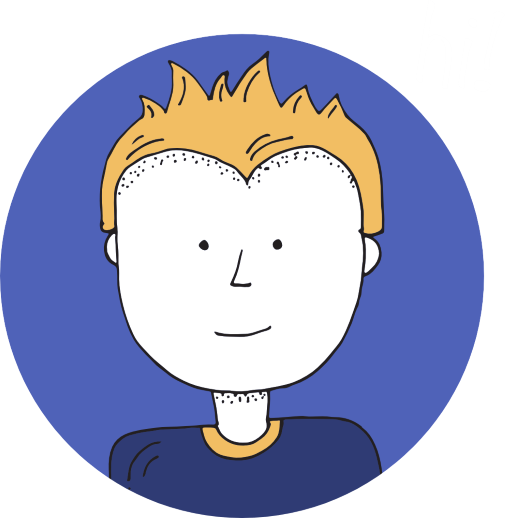
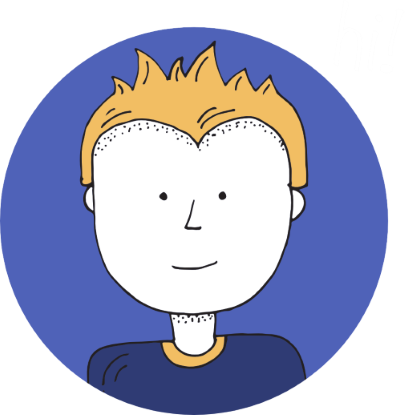
Changed img to webp

diff --git a/index.html b/index.html
@@ -66,7 +66,7 @@
 	<div class="container bloc-lg">
 		<div class="row tight-width-whitespace">
 			<div class="col-sm-12">
-				<img src="img/atlanta%20web%20designer%20mike.png" class="center-block image-resize-mode" width="100" alt="atlanta web designer mike,seo, google, website, internet, web design, design agency" />
+				<img src="img/atlanta%20web%20designer%20mike.webp" class="center-block image-resize-mode" width="100" alt="atlanta web designer mike,seo, google, website, internet, web design, design agency" />
 				<h1 class="text-center hero-bloc-text tc-white ">
 					I'm Mike.
 				</h1>
@@ -159,7 +159,7 @@
 		</div>
 		<div class="row tight-width-whitespace portfolio-row">
 			<div class="col-sm-6">
-				<a href="#" data-lightbox="img/11.jpg" data-gallery-id="gallery-1" data-caption="Website for Atlanta's Premiere dog salon" data-frame="snapshot-lb"><img src="img/11.jpg" class="img-responsive portfolio-thumb" alt="seo, google, website, internet, web design, design agency website for dog salon"/></a>
+				<a href="#" data-lightbox="img/11.webp" data-gallery-id="gallery-1" data-caption="Website for Atlanta's Premiere dog salon" data-frame="snapshot-lb"><img src="img/11.webp" class="img-responsive portfolio-thumb" alt="seo, google, website, internet, web design, design agency website for dog salon"/></a>
 				<h3 class="mg-md text-center">
 					Website for Atlanta&rsquo;s premiere Dog Sitters
 				</h3>
@@ -168,7 +168,7 @@
 				</p>
 			</div>
 			<div class="col-sm-6">
-				<a href="#" data-lightbox="img/2.jpg" data-gallery-id="gallery-1" data-caption="web redesign for the best cupcakes in Atlanta" data-frame="snapshot-lb"><img src="img/2.jpg" class="img-responsive portfolio-thumb" alt="seo, google, website, internet, web design, design agency website for best cupcakes in atlanta"/></a>
+				<a href="#" data-lightbox="img/2.webp" data-gallery-id="gallery-1" data-caption="web redesign for the best cupcakes in Atlanta" data-frame="snapshot-lb"><img src="img/2.webp" class="img-responsive portfolio-thumb" alt="seo, google, website, internet, web design, design agency website for best cupcakes in atlanta"/></a>
 				<h3 class="mg-md text-center">
 					Web redesign for the best Atlanta&nbsp;cupcakes
 				</h3>
@@ -179,7 +179,7 @@
 		</div>
 		<div class="row tight-width-whitespace portfolio-row">
 			<div class="col-sm-6">
-				<a href="#" data-lightbox="img/3.jpg" data-gallery-id="gallery-1" data-caption="New logo and website for Atlanta's best tech gear shop" data-frame="snapshot-lb"><img src="img/3.jpg" class="img-responsive portfolio-thumb" alt="3.jpg" /></a>
+				<a href="#" data-lightbox="img/3.webp" data-gallery-id="gallery-1" data-caption="New logo and website for Atlanta's best tech gear shop" data-frame="snapshot-lb"><img src="img/3.webp" class="img-responsive portfolio-thumb" alt="3.webp" /></a>
 				<h3 class="mg-md text-center">
 					New logo and website for Atl + Gear - Atlanta&rsquo;s best tech gear shop
 				</h3>
@@ -188,7 +188,7 @@
 				</p>
 			</div>
 			<div class="col-sm-6">
-				<a href="#" data-lightbox="img/4.jpg" data-gallery-id="gallery-1" data-caption="Atlanta's legal website generates 30% more clients after web redesign" data-frame="snapshot-lb"><img src="img/4.jpg" class="img-responsive portfolio-thumb" alt="seo, google, website, internet, web design, Atlanta's legal website generates 30% more clients after web redesign" /></a>
+				<a href="#" data-lightbox="img/4.webp" data-gallery-id="gallery-1" data-caption="Atlanta's legal website generates 30% more clients after web redesign" data-frame="snapshot-lb"><img src="img/4.webp" class="img-responsive portfolio-thumb" alt="seo, google, website, internet, web design, Atlanta's legal website generates 30% more clients after web redesign" /></a>
 				<h3 class="mg-md text-center">
 					Atlanta&rsquo;s legal new website - Generating 30% more law clients with a refresh&nbsp;
 				</h3>
